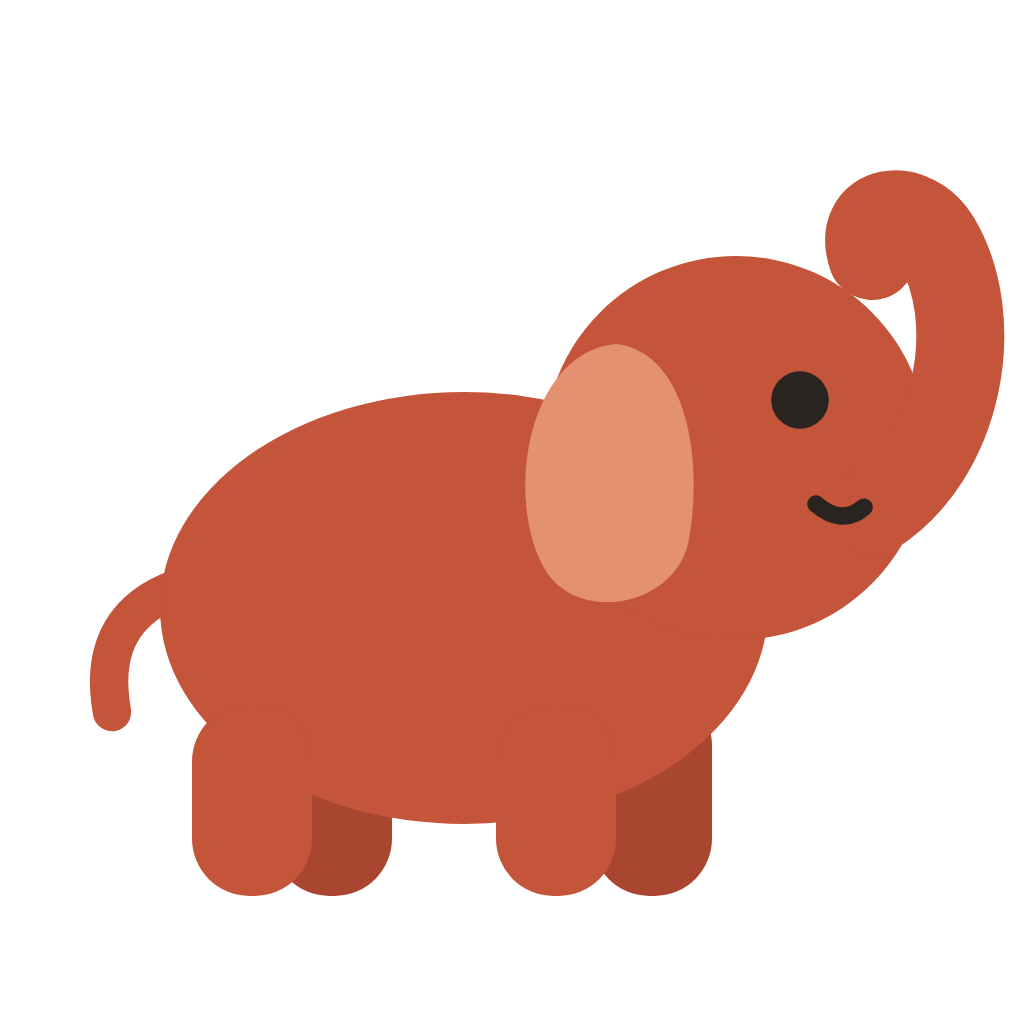
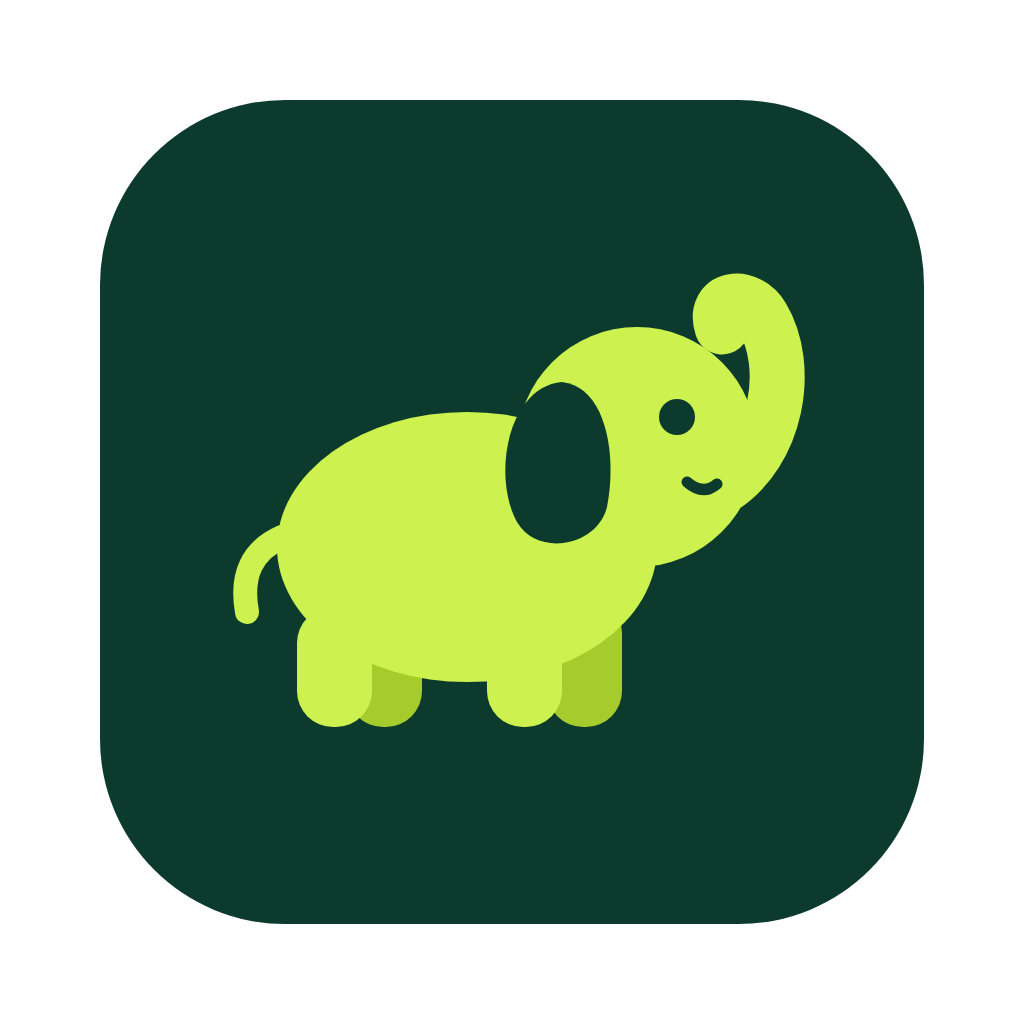
Ikonerna: flikikon, logga och programikon i den nya identiteten med mörkgrönt och lime
Programikonen tas fram ur paketering/ikon.svg med paketering/rita-ikon.js.

Claude-Session: https://claude.ai/code/session_011HXABQnD42FXxnopornQpY

diff --git a/paketering/rita-ikon.js b/paketering/rita-ikon.js
@@ -1,0 +1,14 @@
+// Tar fram paketering/ikon-1024.png ur paketering/ikon.svg med Playwright och Chromium.
+// Anvandning: node paketering/rita-ikon.js paketering/ikon.svg paketering/ikon-1024.png
+const { chromium } = require('playwright');
+const fs = require('fs');
+(async () => {
+  const [svgFil, ut] = process.argv.slice(2);
+  const b = await chromium.launch();
+  const p = await b.newPage({ viewport: { width: 1024, height: 1024 }, deviceScaleFactor: 1 });
+  await p.setContent(`<html><body style="margin:0;background:transparent">${fs.readFileSync(svgFil, 'utf8')}</body></html>`);
+  await p.locator('svg').evaluate((s) => { s.setAttribute('width', '1024'); s.setAttribute('height', '1024'); });
+  // omitBackground ger genomskinlig bakgrund utanfor ikonens form
+  await p.screenshot({ path: ut, omitBackground: true, clip: { x: 0, y: 0, width: 1024, height: 1024 } });
+  await b.close();
+})();
